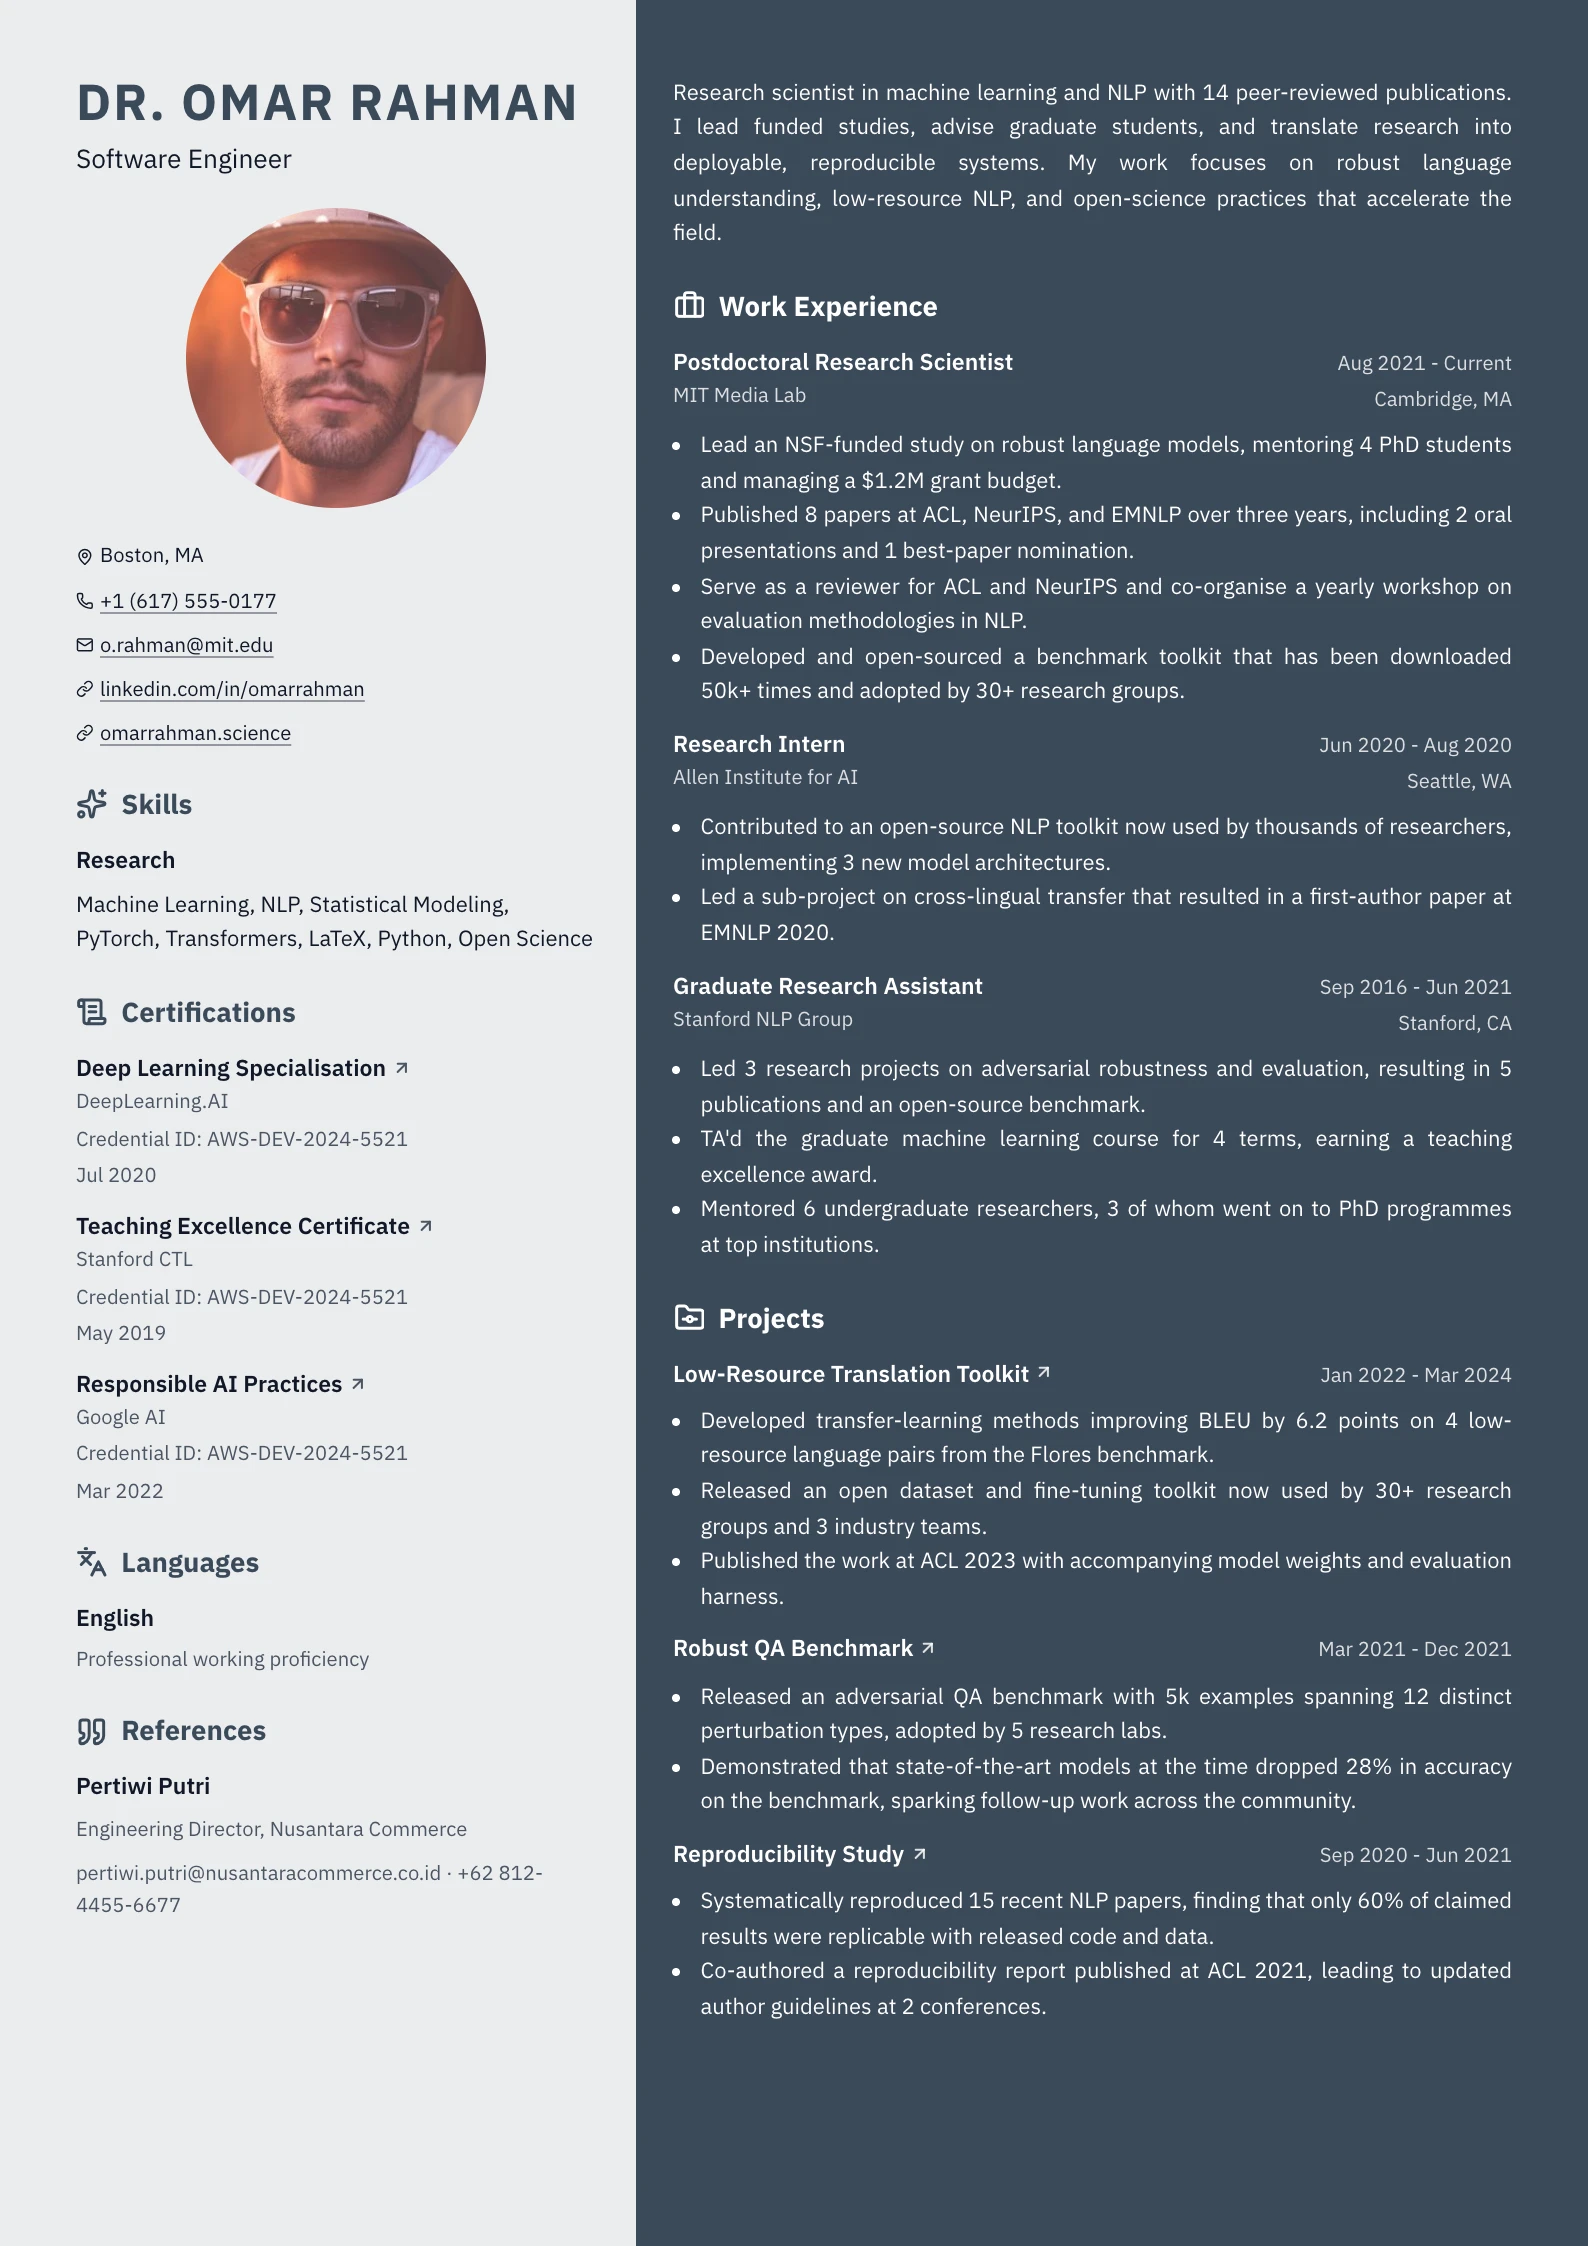
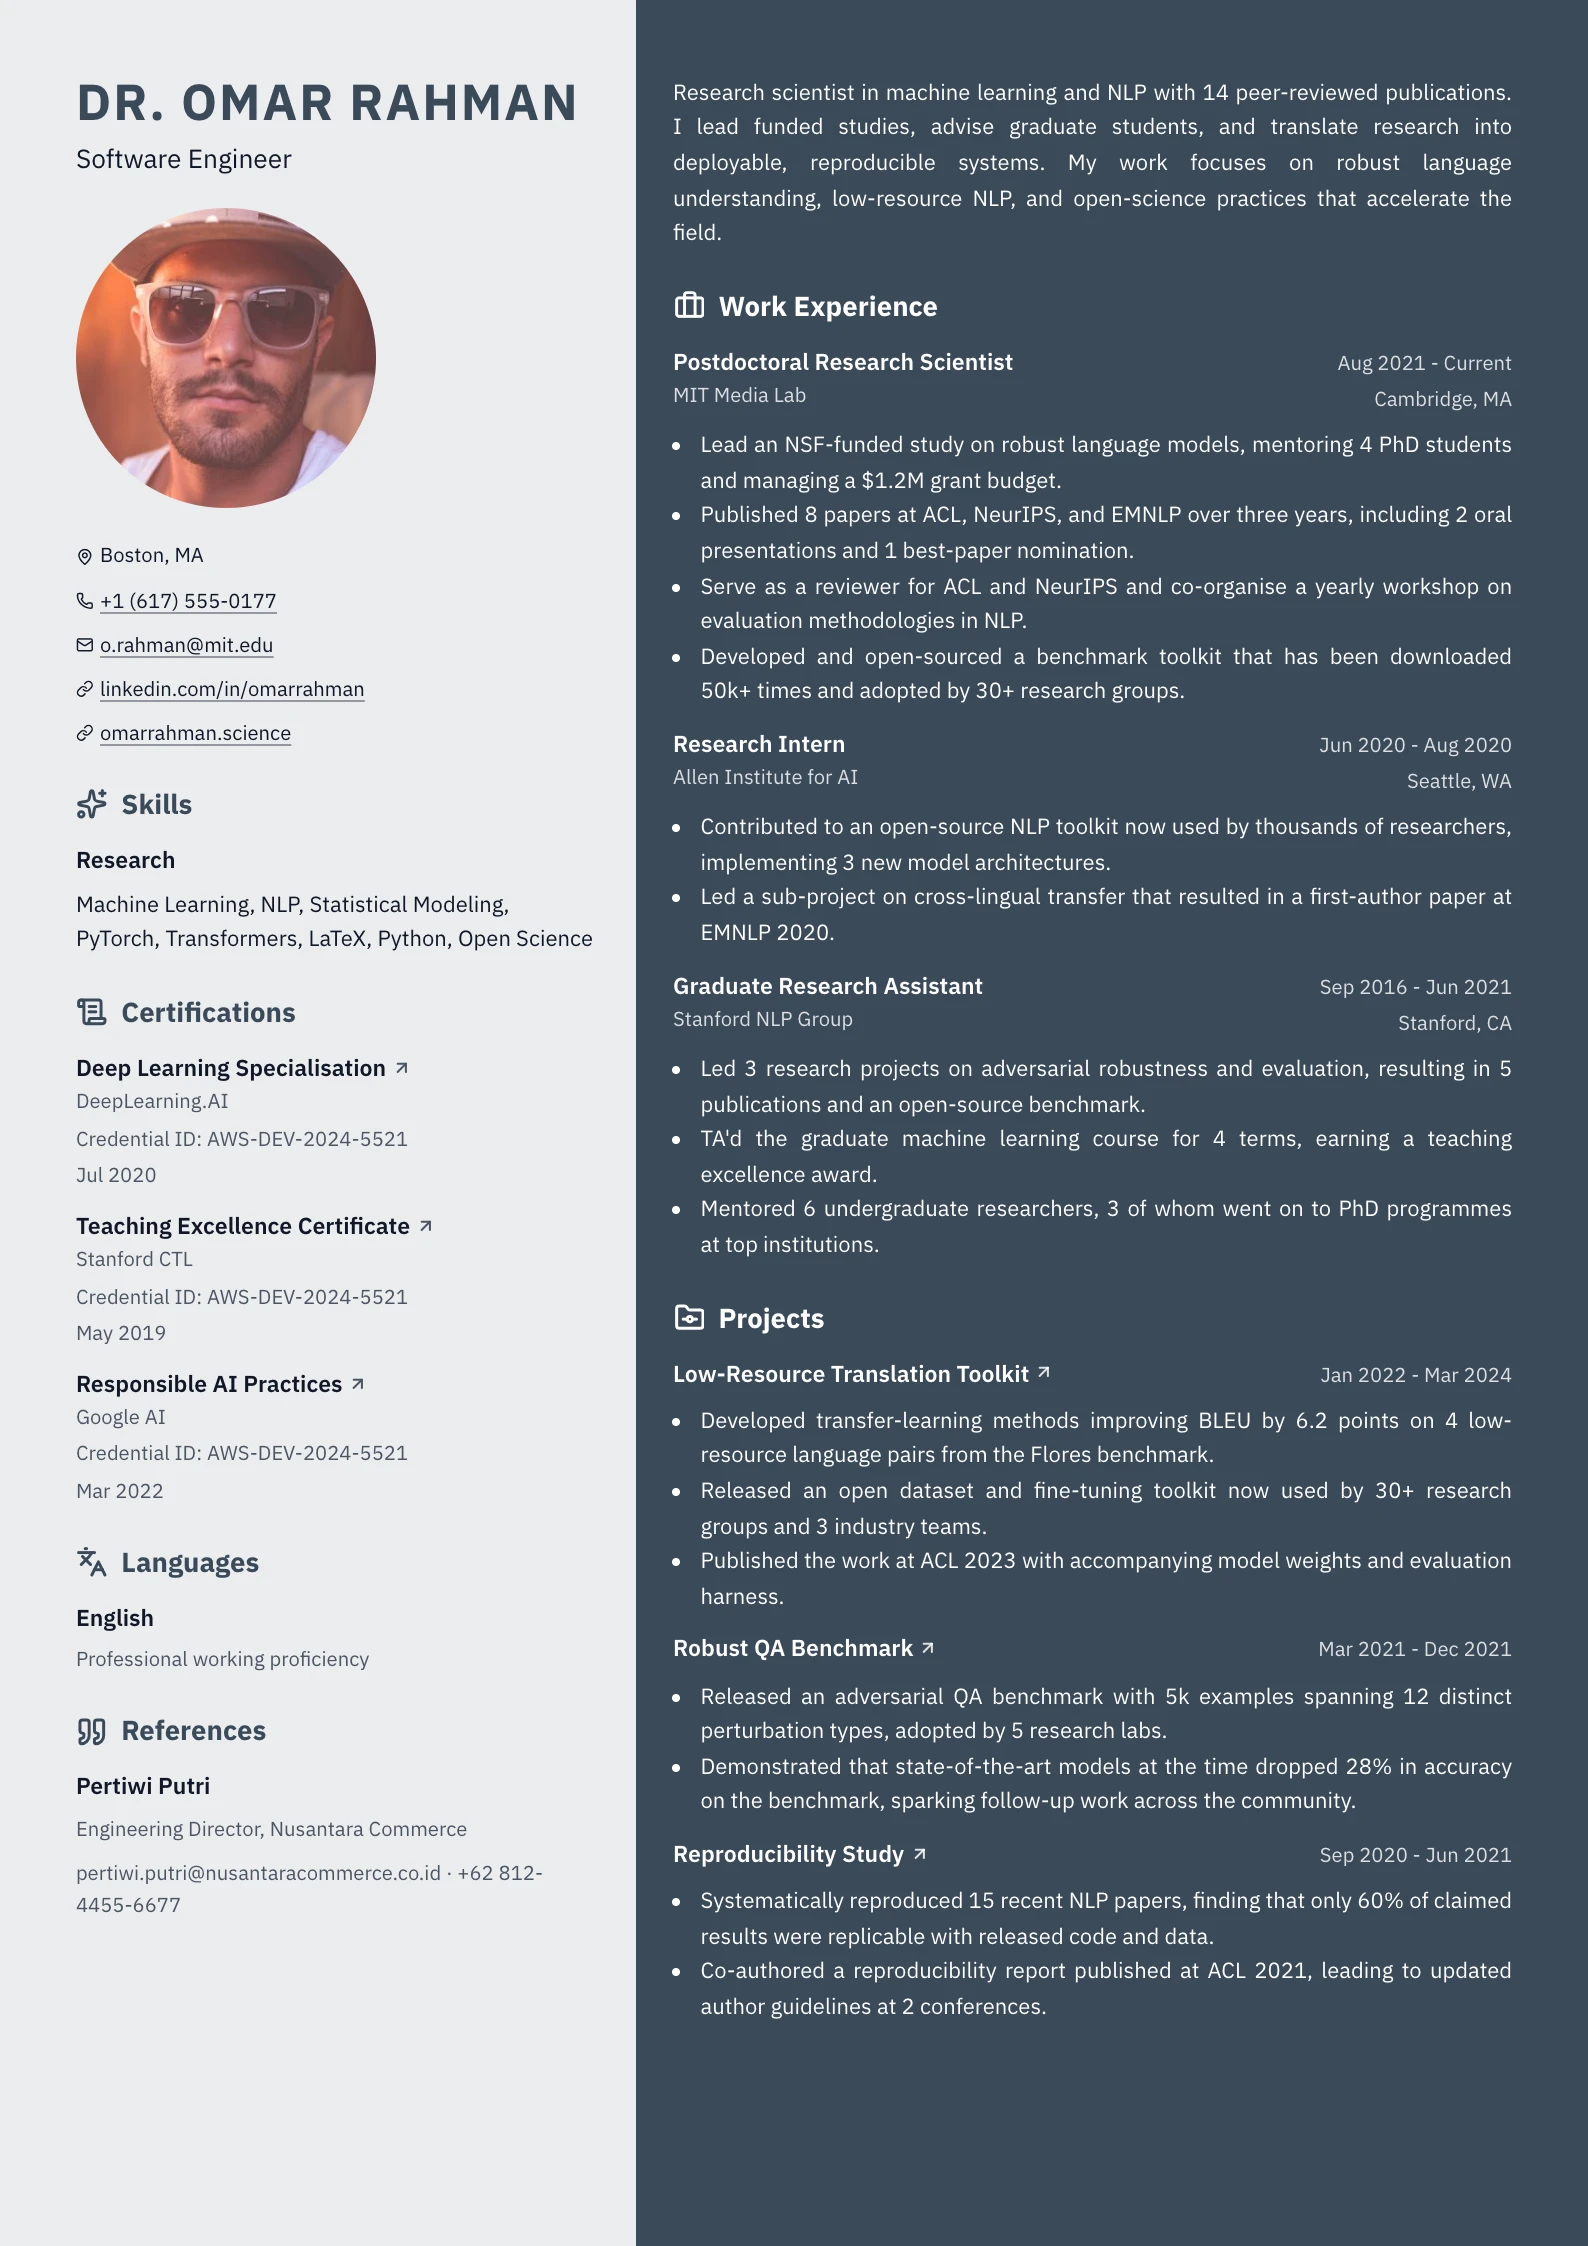
Range duotone's photo left with the rest of the rail
`margin: 0 auto` centred it while the name, headline and every contact row
sit flush left, so it read as the one thing off the rail's axis.
align-self rather than dropping the margin: the rail is a stretch flex
column, and an auto width with no align-self fills it edge to edge.

Changed region(s): [[0.0309, 0.0935, 0.3086, 0.2493]]

diff --git a/src/features/resume-editor/preview/layouts/duotone/styles.module.css b/src/features/resume-editor/preview/layouts/duotone/styles.module.css
@@ -69,7 +69,9 @@
   width: auto;
   border-radius: var(--resume-photo-radius, 50%);
   overflow: hidden;
-  margin: 0 auto;
+  /* Ranged left with the name and the contact rows. The rail is a stretch flex
+     column, so without align-self the auto width would fill it. */
+  align-self: flex-start;
 }
 
 .layout :global(.side-photo img) {
